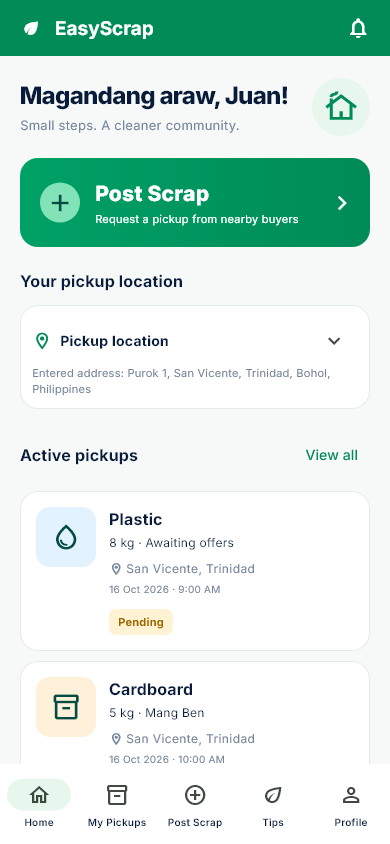
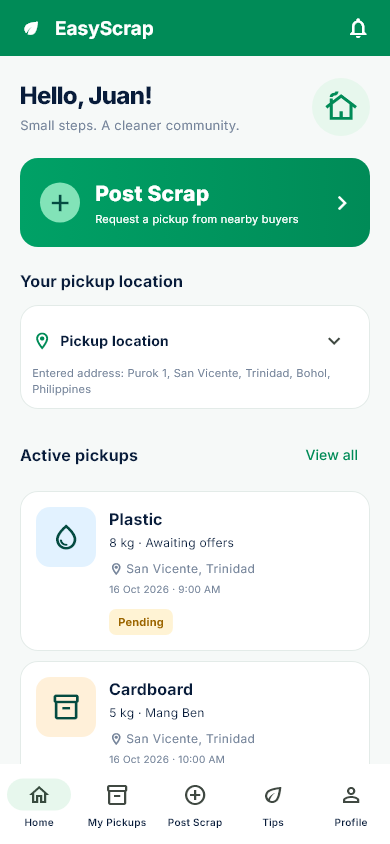
Fix

Changed region(s): [[0.0615, 0.0924, 0.5538, 0.154], [0.5846, 0.0924, 0.7385, 0.1232]]

diff --git a/test/auth_widget_test.dart b/test/auth_widget_test.dart
@@ -97,7 +97,7 @@ void main() {
       expect(app.user.name, 'Ana Reyes');
       expect(app.role, UserRole.household);
       expect(app.ownPickups, isEmpty);
-      expect(find.text('Magandang araw, Ana!'), findsOneWidget);
+      expect(find.text('Hello, Ana!'), findsOneWidget);
       expect(tester.takeException(), isNull);
       await tester.pumpWidget(const SizedBox());
       app.dispose();
@@ -120,6 +120,6 @@ void main() {
       );
       await tester.pumpWidget(const SizedBox());
       app.dispose();
-    });
+    }, tags: 'golden');
   }
 }

diff --git a/test/screens_test.dart b/test/screens_test.dart
@@ -1,3 +1,6 @@
+@Tags(['golden'])
+library;
+
 import 'package:easy_scrap/application/app_controller.dart';
 import 'package:easy_scrap/data/demo_recycling_repository.dart';
 import 'package:easy_scrap/data/bohol_locations.dart';

diff --git a/docs/ios-ci.md b/docs/ios-ci.md
@@ -35,9 +35,14 @@ or branch. If the default branch is renamed, update both branch filters.
   than 16.0. The main executable must specify exactly 16.0.
 - `ditto -c -k --sequesterRsrc --keepParent` preserves `Runner.app` inside
   `build/flutter-ios-unsigned-build.zip`. Upload retention is seven days.
-- The full automated test suite runs **after upload**. Failures still mark the
-  run failed, while a successfully built app remains downloadable. The live API
-  integration test stays skipped unless explicitly enabled with its backend.
+- Behavioral tests run on macOS **after upload** with
+  `flutter test --exclude-tags golden`. A separate `windows-2025` job runs all
+  eight pixel comparisons with `flutter test --tags golden`, using the same
+  Flutter 3.44.8 SDK as the Windows reference images. Every test remains covered
+  across these jobs; failures still mark the run failed while a successfully
+  built app remains downloadable. The live API integration test stays skipped
+  unless explicitly enabled with its backend. Screenshot differences are
+  uploaded as `golden-test-differences` when the Windows job fails.
 
 An unsigned `.app` ZIP is **not an installable IPA** and cannot be used directly
 on an ordinary iPhone. Nothing in this workflow uploads to TestFlight or the App
@@ -83,11 +88,16 @@ Windows checks performed with the existing Flutter SDK:
 - `flutter analyze`: passed, including the new layout test.
 - `python tool/verify_ios.py`: source and plugin checks passed.
 - Workflow YAML and expressions validated with actionlint 1.7.12.
-- Existing full test suite: **55 passed, 1 skipped, 2 failed** before adding the
-  iPhone 8 layout test. Failures are the registration greeting assertion in
-  `auth_widget_test.dart` and the household-home golden in `screens_test.dart`.
-  Both reflect existing differences in the user's working UI; do not regenerate
-  goldens or change application behavior merely to make CI green.
+- After the test fixes, the CI-equivalent commands passed locally on Windows:
+  **51 behavioral tests passed, 1 live API test skipped**, and **all 8 golden
+  tests passed**. The macOS job and hosted Windows job still require a new
+  Actions run to confirm their results on those runners.
+- The registration test now expects the current `Hello, Ana!` greeting while
+  retaining checks for password confirmation, the registered user's identity,
+  household role, empty pickup history, and successful UI rendering.
+- The household-home reference image was visually reviewed and updated only
+  for the intended greeting change from `Magandang araw, Juan!` to
+  `Hello, Juan!`. The other seven reference images remain unchanged.
 - `test/iphone8_layout_test.dart` exercises login and all five household/buyer
   tabs at 375 x 667 logical points, with the iPhone 8 status bar inset. This is
   a Flutter layout smoke test, not a native device test. Both tests passed.
@@ -103,6 +113,27 @@ a **physical iPhone 8 running iOS 16.x**: launch, login, all tabs, scrolling,
 keyboard behavior, maps, location/photos, secure storage, networking, and any
 enabled notification behavior. Test landscape and accessibility text sizes too.
 Compilation and the viewport smoke test do not prove full device compatibility.
+
+## Screenshot test maintenance
+
+The eight screenshot tests have the `golden` tag in `dart_test.yaml` and their
+test declarations. Run the complete suite on Windows with `flutter test`.
+For the same split as CI, run `flutter test --exclude-tags golden` for behavioral
+checks and `flutter test --tags golden` for screenshots. Exact pixel comparisons
+use Windows baselines because [Flutter documents platform-dependent font
+rendering](https://api.flutter.dev/flutter/flutter_test/matchesGoldenFile.html).
+There is no relaxed comparison tolerance or automatic baseline regeneration.
+
+When an intended UI change affects a screenshot, inspect its failure images,
+then update only the affected baseline on Windows using the pinned SDK, e.g.:
+
+```powershell
+flutter test test/screens_test.dart --plain-name "household-home phone layout" --update-goldens
+flutter test --tags golden
+```
+
+Review the image diff before committing. Updating baselines is a developer
+action; CI must compare against the committed images.
 
 ## Commit and push when ready
 
